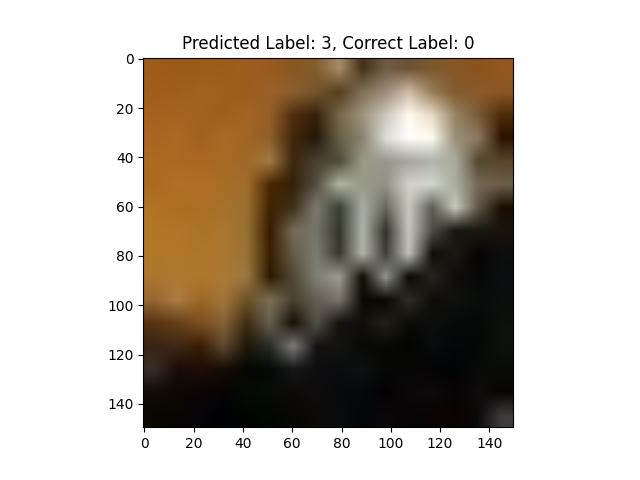
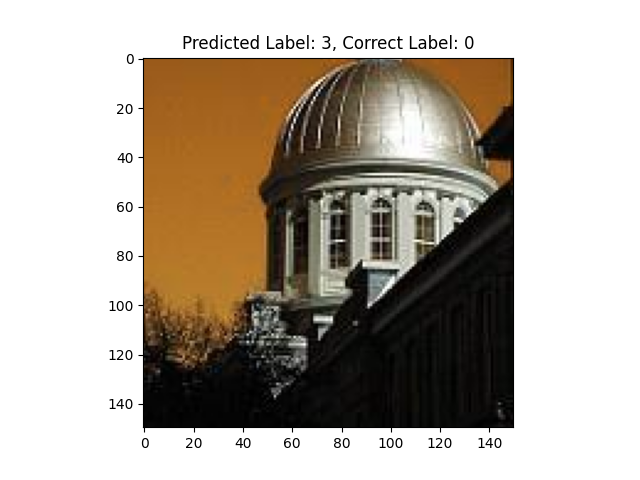
doa, dead or alive

Changed region(s): [[0.2188, 0.125, 0.8125, 0.8438], [0.75, 0.8438, 0.8125, 0.9062], [0.7812, 0.125, 0.8125, 0.1562]]

diff --git a/A2/Q2/b_multi.py b/A2/Q2/b_multi.py
@@ -68,8 +68,9 @@ for i, y in enumerate(y_pred):
   
 for i in range(12):
   index, label = mislabeled[i]
-  upscaled_image = cv2.resize(np.reshape(x_test[index], (16, 16, 3)), (150, 150), interpolation=cv2.INTER_LINEAR)
-  plt.imshow(upscaled_image)
+  contents = os.listdir(f'Q2/val/{y_test[index]}')
+  image = cv2.imread(f'Q2/val/{y_test[index]}/{contents[index % len(contents)]}')
+  plt.imshow(image)
   plt.title(f'Predicted Label: {label}, Correct Label: {y_test[index]}')
   plt.savefig(f'b_{i}.png')
   plt.show()
